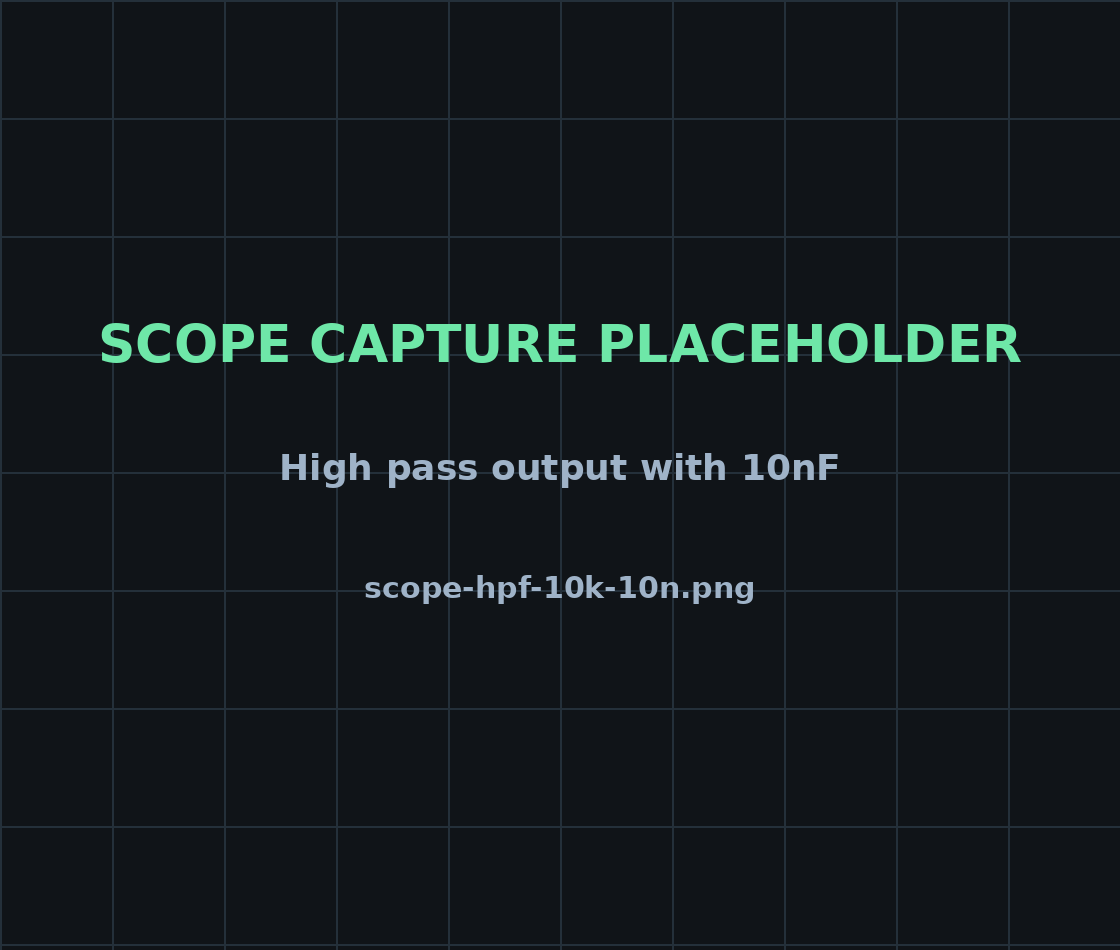
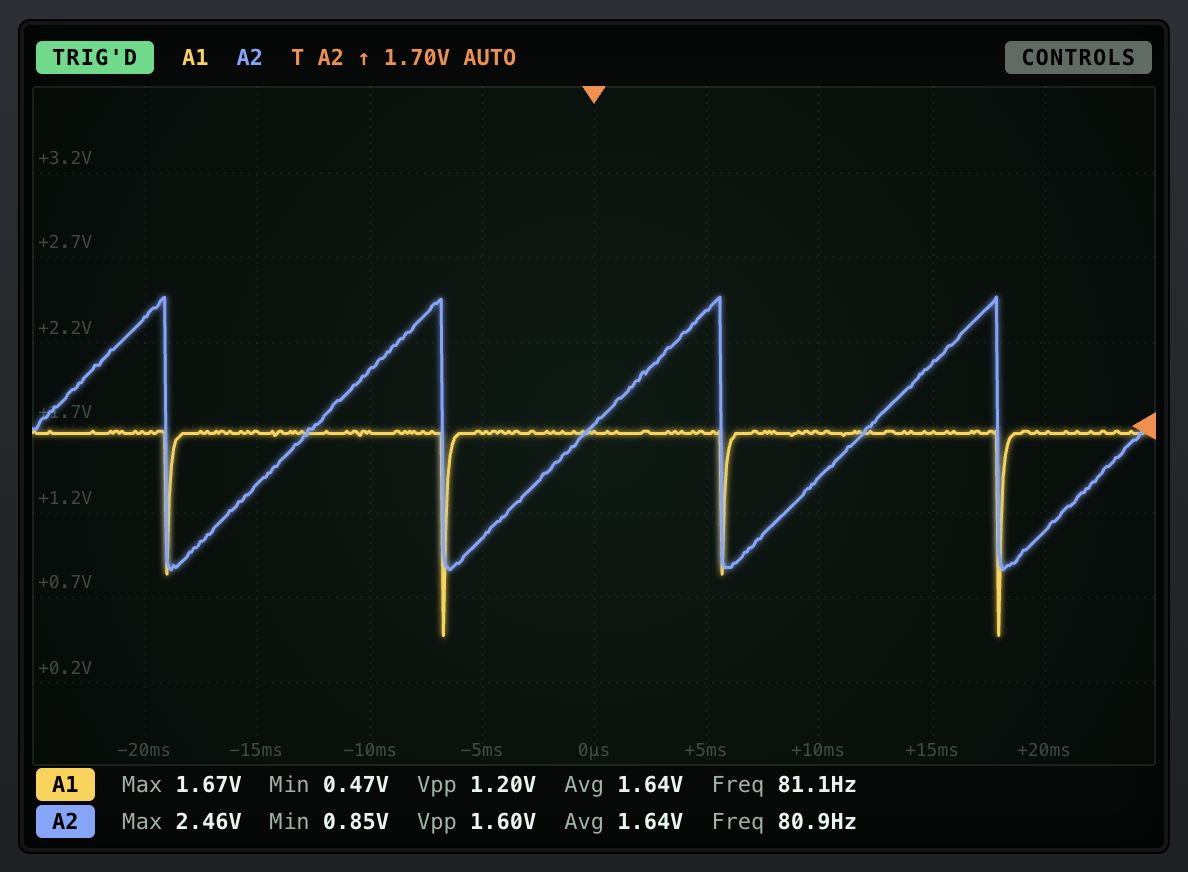
Add images for RC course's 3rd lesson.

diff --git a/content/courses/02-rc-filters-and-low-pass-gates/03-rc-high-pass-filter.md b/content/courses/02-rc-filters-and-low-pass-gates/03-rc-high-pass-filter.md
@@ -14,25 +14,22 @@ We don't use a high pass filter in the LOW module. But it shows up in almost eve
 - The cutoff frequency formula is exactly the same: `fc = 1 / (2 × π × R × C)`
 - With 10k and 100nF, it's about 160Hz.
 
-![RC high pass filter on the breadboard](/images/courses/rc-filters/photo-rc-high-pass.jpg)
+Build it on the breadboard the same way as the low pass filter, just with the resistor and the capacitor swapped. The capacitor sits in the audio path, and the resistor goes to the 1.65V rail.
 
-*The capacitor sits in the audio path. The resistor goes to the 1.65V rail.*
+Connect the scope just like in the previous lesson:
 
-[columns]
+- The audio input goes to the 16bit's A2 input (blue).
+- The filter output goes to the 16bit's A1 input through the buffered oscilloscope probe (yellow).
 
-![Input sawtooth](/images/courses/rc-filters/scope-hpf-input.png)
+![Input and high pass output](/images/courses/rc-filters/scope-hpf-10k-100n.png)
 
-*The input (sawtooth)*
+*Blue: the input sawtooth (about 81Hz). Yellow: the output with 10k and 100nF.*
 
-![High pass output](/images/courses/rc-filters/scope-hpf-10k-100n.png)
-
-*The output with 10k and 100nF*
-
-[/columns]
+Our sawtooth is below the cutoff frequency, so the slow ramp mostly gets removed. Only the sharp edge passes through as a spike, and the output quickly settles back to 1.65V.
 
 > 👂 Listen to it. It's thinner. You lose the body of the sound, but the buzz stays.
 
-> 🛠 Now use a 10nF capacitor (fc ≈ 1.6kHz). The sawtooth turns into a series of spikes and sounds very thin.
+> 🛠 Now use a 10nF capacitor (fc ≈ 1.6kHz). The spikes get even narrower and it sounds very thin.
 
 ![High pass output with 10nF](/images/courses/rc-filters/scope-hpf-10k-10n.png)
 
@@ -40,11 +37,11 @@ We don't use a high pass filter in the LOW module. But it shows up in almost eve
 
 ## 2. Why the Resistor Goes to 1.65V
 
-Now, connect the resistor to 0V instead of the 1.65V rail and check the output.
+Now, go back to the 100nF capacitor, connect the resistor to 0V instead of the 1.65V rail, and check the output.
 
 ![High pass with the resistor at 0V](/images/courses/rc-filters/scope-hpf-gnd-ref.png)
 
-*The waveform now wiggles around 0V. The bottom half is cut off.*
+*The output now sits near 0V. The spikes go below 0V, so they get cut off.*
 
 A capacitor blocks DC (any voltage that doesn't change). It only lets the changes through. So the output has no idea where the original midpoint was. The resistor decides it:
 
